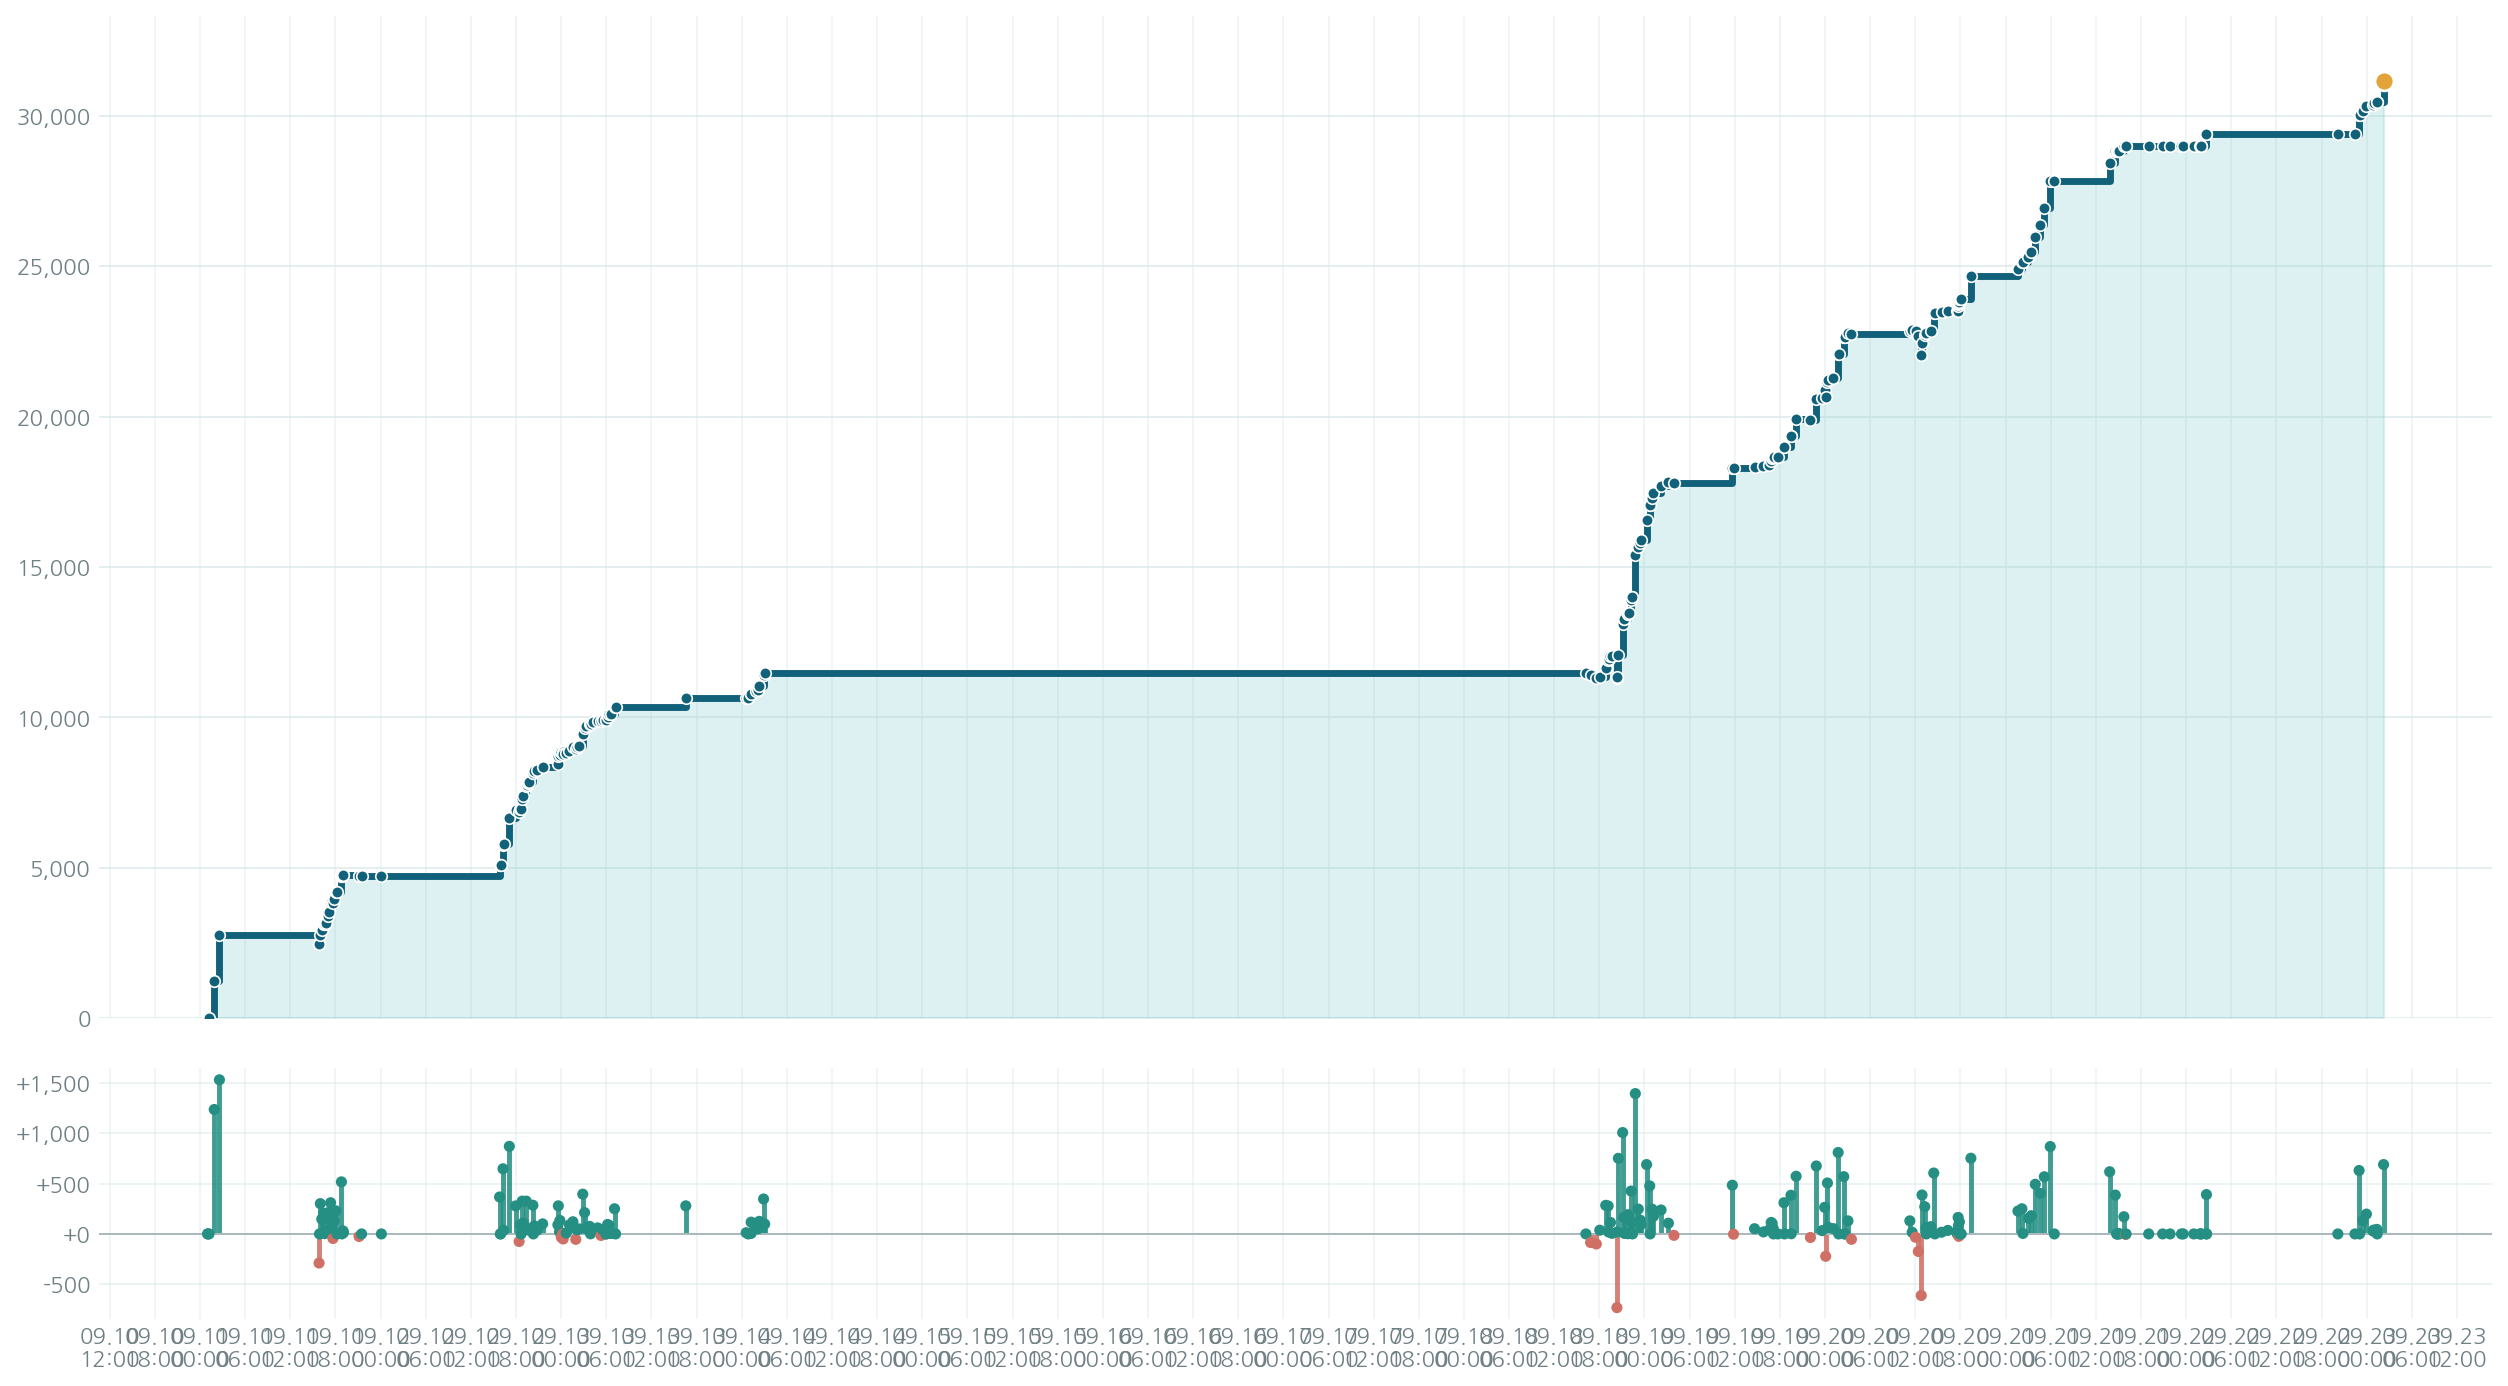
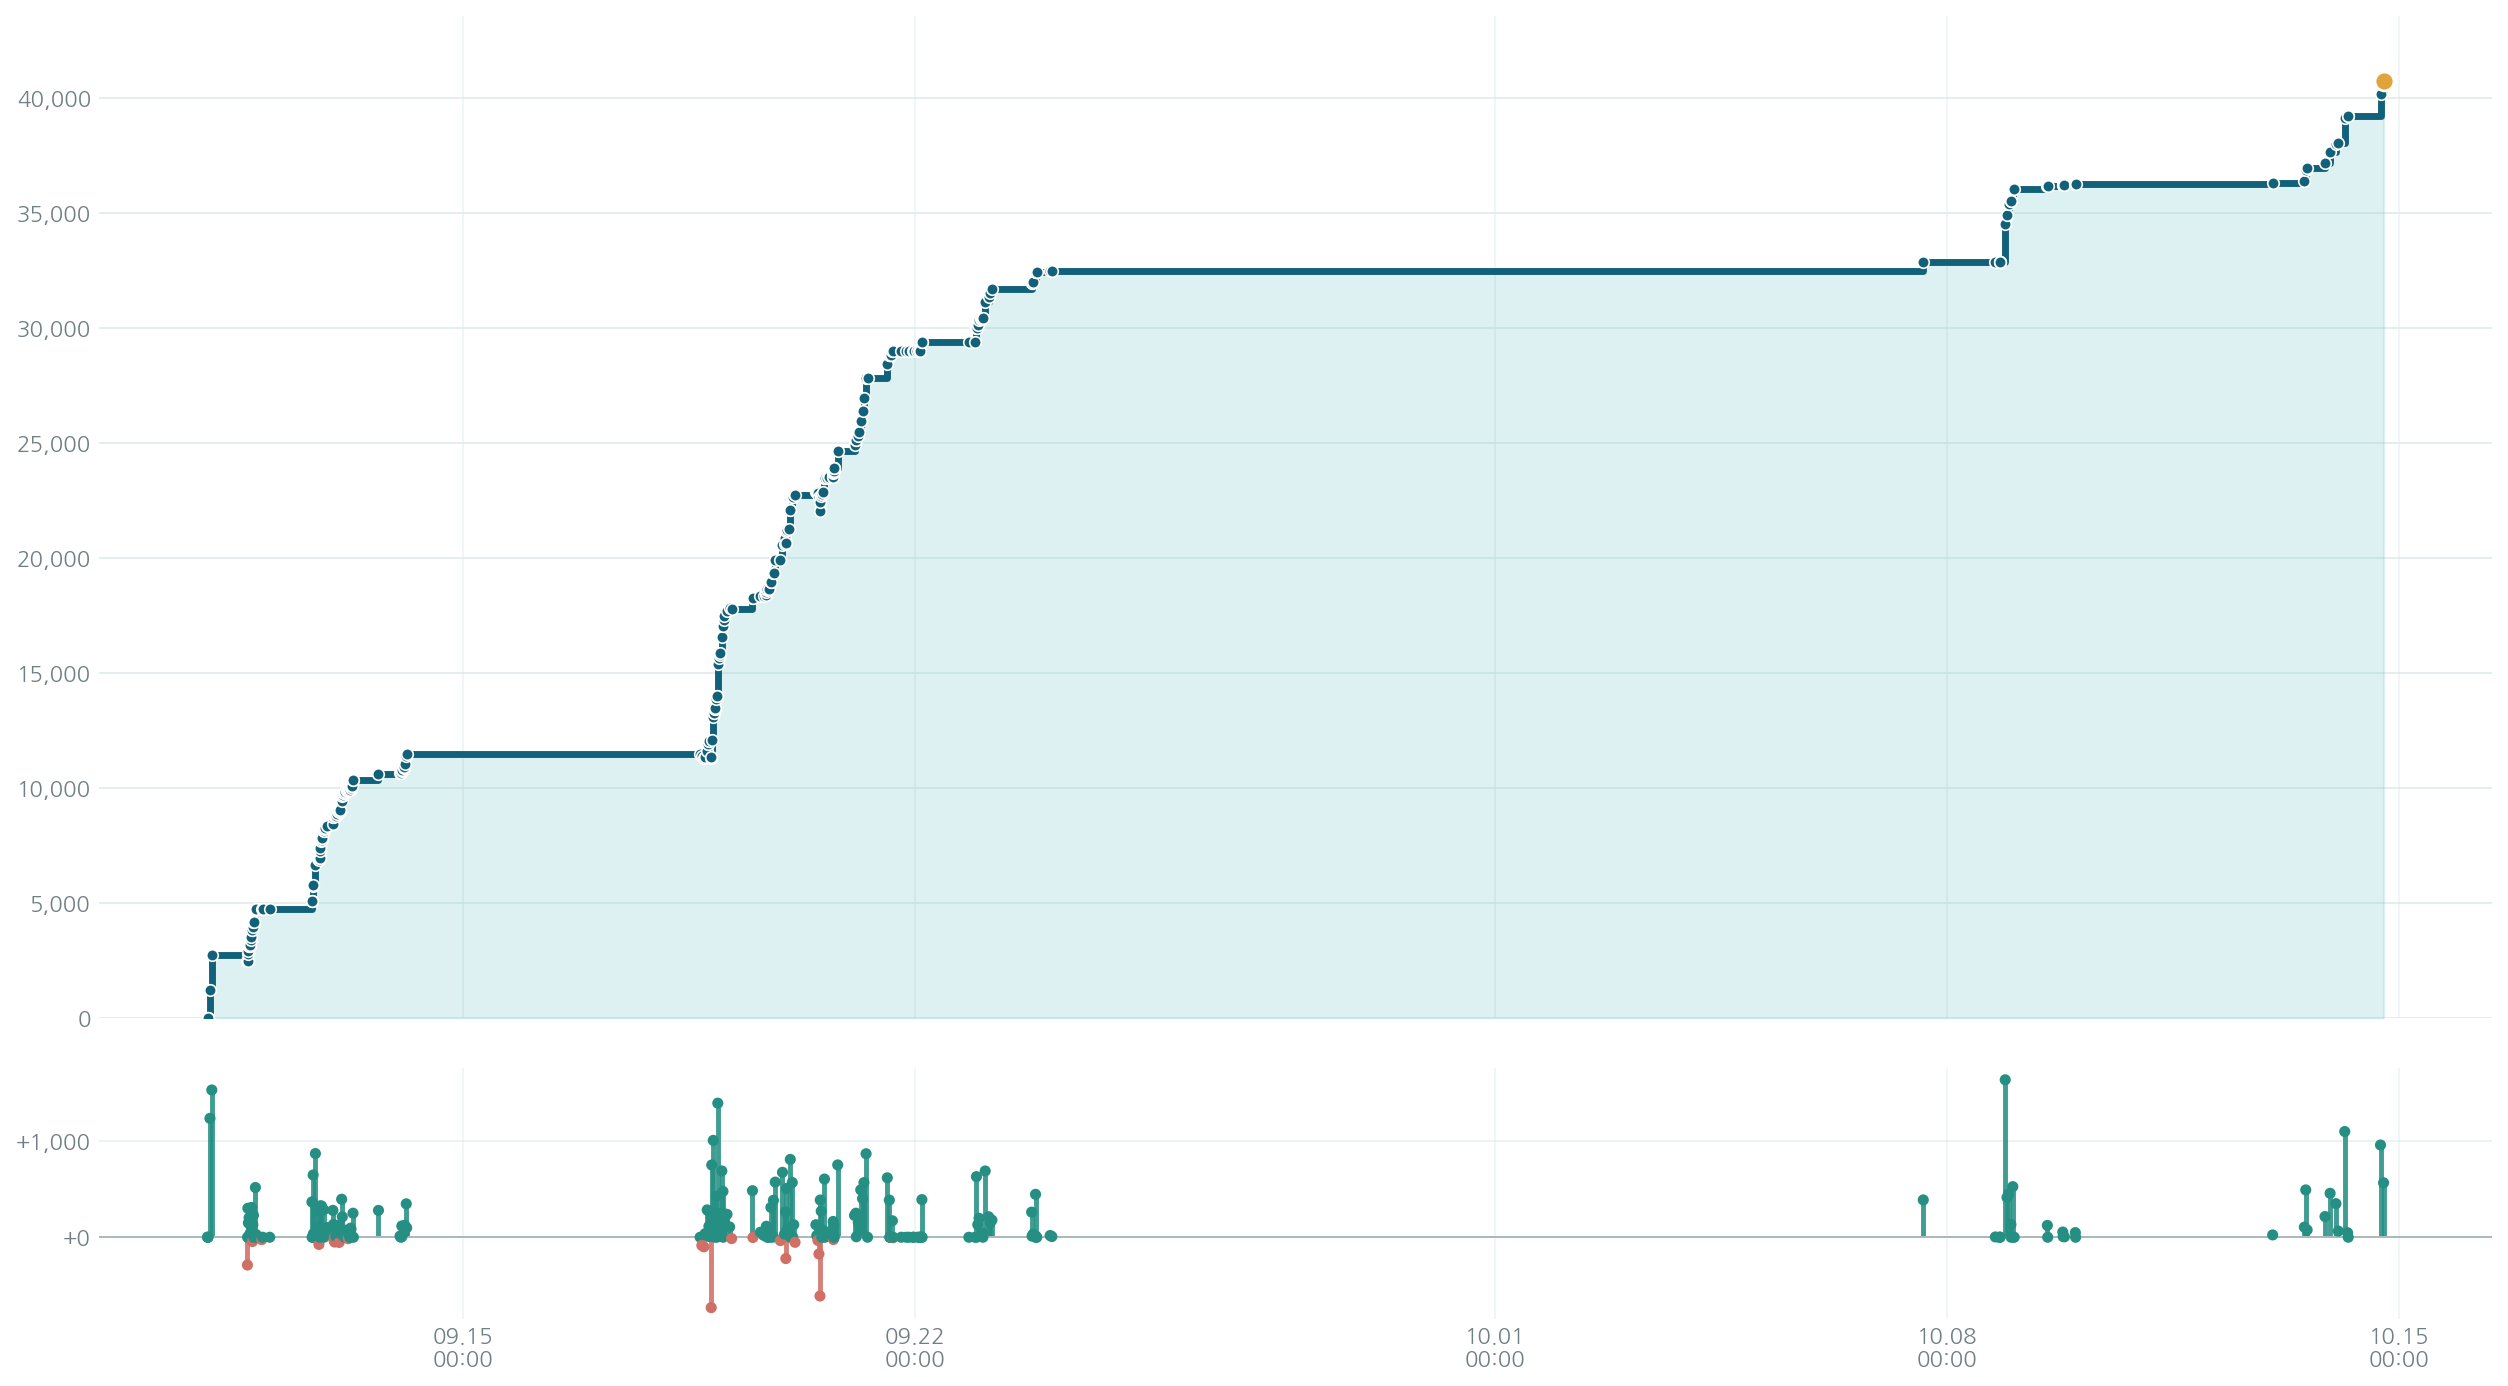
feat: update repository component growth data and image

diff --git a/apps/code-growth/plot-code-growth.py b/apps/code-growth/plot-code-growth.py
@@ -4,16 +4,23 @@
 from __future__ import annotations
 
 import os
-import subprocess
+import sys
 import tempfile
 from datetime import datetime
 from pathlib import Path
+from time import monotonic
 from zoneinfo import ZoneInfo
+
+from git_history import BlobLineCounter, code_blobs, git_text
 
 os.environ.setdefault(
     "MPLCONFIGDIR", str(Path(tempfile.gettempdir()) / "setdown-matplotlib")
 )
 
+import matplotlib
+
+# This script saves PNGs and must not open a desktop window from an IDE.
+matplotlib.use("Agg")
 import matplotlib.dates as mdates
 import matplotlib.pyplot as plt
 from matplotlib import font_manager
@@ -61,12 +68,6 @@ CODE_DIRECTORIES = (
 CONFIG_DIRECTORIES = {Path("."), Path("apps/desktop")}
 
 
-def git(*args: str) -> str:
-    return subprocess.check_output(
-        ["git", *args], cwd=ROOT, text=True, encoding="utf-8"
-    )
-
-
 def is_code_file(path: str) -> bool:
     candidate = Path(path)
     if path in ROOT_CODE_FILES:
@@ -78,17 +79,8 @@ def is_code_file(path: str) -> bool:
     )
 
 
-def code_lines(commit: str) -> int:
-    paths = git("ls-tree", "-r", "--name-only", commit).splitlines()
-    total = 0
-    for path in paths:
-        if not is_code_file(path):
-            continue
-        content = subprocess.check_output(
-            ["git", "show", f"{commit}:{path}"], cwd=ROOT
-        )
-        total += len(content.splitlines())
-    return total
+def code_lines(commit: str, counter: BlobLineCounter) -> int:
+    return sum(counter.lines(sha) for sha, path in code_blobs(commit) if is_code_file(path))
 
 
 def apply_type() -> None:
@@ -110,7 +102,7 @@ def apply_type() -> None:
 
 
 def style_time_axis(axis: plt.Axes) -> None:
-    axis.xaxis.set_major_locator(mdates.HourLocator(byhour=range(0, 24, 6), tz=SEOUL))
+    axis.xaxis.set_major_locator(mdates.AutoDateLocator(minticks=4, maxticks=8, tz=SEOUL))
     axis.xaxis.set_major_formatter(mdates.DateFormatter("%m.%d\n%H:%M", tz=SEOUL))
     axis.tick_params(axis="both", which="both", length=0, labelsize=10)
     axis.grid(axis="x", color=GRID, linewidth=0.8, alpha=0.48)
@@ -241,20 +233,27 @@ def save_detailed(records: list[dict[str, object]]) -> None:
 
 
 def main() -> None:
+    started = monotonic()
     records = []
-    history = git(
+    history = git_text(
         "log", "--reverse", "--format=%H%x09%cI%x09%s"
     ).splitlines()
-    for row in history:
-        commit, committed_at, subject = row.split("\t", 2)
-        records.append(
-            {
-                "commit": commit,
-                "time": datetime.fromisoformat(committed_at),
-                "subject": subject,
-                "lines": code_lines(commit),
-            }
-        )
+    if not history:
+        raise RuntimeError("No commits found in this repository.")
+    print(f"Counting code lines across {len(history)} commits…", file=sys.stderr, flush=True)
+    with BlobLineCounter() as counter:
+        for index, row in enumerate(history, 1):
+            commit, committed_at, subject = row.split("\t", 2)
+            records.append(
+                {
+                    "commit": commit,
+                    "time": datetime.fromisoformat(committed_at),
+                    "subject": subject,
+                    "lines": code_lines(commit, counter),
+                }
+            )
+            if index == 1 or index % 25 == 0 or index == len(history):
+                print(f"Counted {index}/{len(history)} commits", file=sys.stderr, flush=True)
 
     CLEAN_OUTPUT.parent.mkdir(parents=True, exist_ok=True)
     times = [record["time"] for record in records]
@@ -267,6 +266,7 @@ def main() -> None:
     print(f"Wrote {CLEAN_OUTPUT.relative_to(ROOT)}")
     print(f"Wrote {DETAILED_OUTPUT.relative_to(ROOT)}")
     print(f"Final code lines: {lines[-1]:,}")
+    print(f"Completed in {monotonic() - started:.1f}s")
 
 
 if __name__ == "__main__":

diff --git a/apps/code-growth/plot-component-growth.py b/apps/code-growth/plot-component-growth.py
@@ -6,12 +6,12 @@ from __future__ import annotations
 import argparse
 import csv
 import os
-import subprocess
 import tempfile
 from collections import OrderedDict
-from contextlib import AbstractContextManager
 from datetime import datetime
 from pathlib import Path
+
+from git_history import BlobLineCounter, code_blobs, git_text
 
 os.environ.setdefault(
     "MPLCONFIGDIR", str(Path(tempfile.gettempdir()) / "setdown-matplotlib")
@@ -80,14 +80,6 @@ LEGACY_TOOLING_FILES = {
 SELF_ANALYSIS_PATHS = {
     "scripts/plot-code-growth.py",
 }
-
-
-def git_bytes(*args: str) -> bytes:
-    return subprocess.check_output(["git", *args], cwd=ROOT)
-
-
-def git_text(*args: str) -> str:
-    return git_bytes(*args).decode("utf-8", errors="replace")
 
 
 def is_test_path(path: str) -> bool:
@@ -179,65 +171,9 @@ def component_for_path(path: str) -> str:
     return "legacy"
 
 
-class BlobLineCounter(AbstractContextManager["BlobLineCounter"]):
-    """Count physical lines once per blob SHA across the full history."""
-
-    def __init__(self) -> None:
-        self.cache: dict[str, int] = {}
-        self.process = subprocess.Popen(
-            ["git", "cat-file", "--batch"],
-            cwd=ROOT,
-            stdin=subprocess.PIPE,
-            stdout=subprocess.PIPE,
-        )
-
-    def __exit__(self, exc_type, exc_value, traceback) -> None:
-        if self.process.stdin:
-            self.process.stdin.close()
-        if self.process.stdout:
-            self.process.stdout.close()
-        self.process.terminate()
-        self.process.wait(timeout=5)
-
-    def lines(self, sha: str) -> int:
-        cached = self.cache.get(sha)
-        if cached is not None:
-            return cached
-
-        if self.process.stdin is None or self.process.stdout is None:
-            raise RuntimeError("git cat-file batch process is unavailable")
-
-        self.process.stdin.write(f"{sha}\n".encode())
-        self.process.stdin.flush()
-
-        header = self.process.stdout.readline().decode("ascii", errors="replace").strip()
-        parts = header.split()
-        if len(parts) != 3 or parts[1] != "blob":
-            raise RuntimeError(f"unexpected git cat-file response for {sha}: {header}")
-
-        size = int(parts[2])
-        content = self.process.stdout.read(size)
-        self.process.stdout.read(1)
-
-        count = len(content.splitlines())
-        self.cache[sha] = count
-        return count
-
-
 def snapshot_components(commit: str, counter: BlobLineCounter) -> dict[str, int]:
     totals = {key: 0 for key in COMPONENTS}
-    tree = git_bytes("ls-tree", "-r", "-z", "--full-tree", commit)
-
-    for entry in tree.split(b"\0"):
-        if not entry:
-            continue
-
-        metadata, raw_path = entry.split(b"\t", 1)
-        _mode, kind, sha = metadata.decode("ascii").split()
-        if kind != "blob":
-            continue
-
-        path = raw_path.decode("utf-8", errors="surrogateescape")
+    for sha, path in code_blobs(commit):
         if not is_code_file(path):
             continue
 

diff --git a/apps/code-growth/git_history.py b/apps/code-growth/git_history.py
@@ -1,0 +1,70 @@
+"""Read Git snapshots with one cached line count per unique file blob."""
+
+from __future__ import annotations
+
+import subprocess
+from contextlib import AbstractContextManager
+from pathlib import Path
+
+
+ROOT = Path(__file__).resolve().parents[2]
+
+
+def git_bytes(*args: str) -> bytes:
+    return subprocess.check_output(["git", *args], cwd=ROOT)
+
+
+def git_text(*args: str) -> str:
+    return git_bytes(*args).decode("utf-8", errors="replace")
+
+
+def code_blobs(commit: str):
+    """Yield blob IDs and unquoted paths, including paths containing newlines."""
+    for entry in git_bytes("ls-tree", "-r", "-z", "--full-tree", commit).split(b"\0"):
+        if not entry:
+            continue
+        metadata, raw_path = entry.split(b"\t", 1)
+        _mode, kind, sha = metadata.decode("ascii").split()
+        if kind == "blob":
+            yield sha, raw_path.decode("utf-8", errors="surrogateescape")
+
+
+class BlobLineCounter(AbstractContextManager["BlobLineCounter"]):
+    """Keep one cat-file process; unchanged files reuse their blob's count."""
+
+    def __init__(self) -> None:
+        self.cache: dict[str, int] = {}
+        self.process = subprocess.Popen(
+            ["git", "cat-file", "--batch"],
+            cwd=ROOT,
+            stdin=subprocess.PIPE,
+            stdout=subprocess.PIPE,
+        )
+
+    def __exit__(self, exc_type, exc_value, traceback) -> None:
+        if self.process.stdin:
+            self.process.stdin.close()
+        if self.process.stdout:
+            self.process.stdout.close()
+        self.process.terminate()
+        self.process.wait(timeout=5)
+
+    def lines(self, sha: str) -> int:
+        cached = self.cache.get(sha)
+        if cached is not None:
+            return cached
+        if self.process.stdin is None or self.process.stdout is None:
+            raise RuntimeError("git cat-file batch process is unavailable")
+        self.process.stdin.write(f"{sha}\n".encode("ascii"))
+        self.process.stdin.flush()
+        header = self.process.stdout.readline().decode("ascii", errors="replace").strip()
+        parts = header.split()
+        if len(parts) != 3 or parts[1] != "blob":
+            raise RuntimeError(f"unexpected git cat-file response for {sha}: {header}")
+        size = int(parts[2])
+        content = self.process.stdout.read(size)
+        if len(content) != size or self.process.stdout.read(1) != b"\n":
+            raise RuntimeError(f"incomplete git blob {sha}")
+        count = len(content.splitlines())
+        self.cache[sha] = count
+        return count

diff --git a/apps/code-growth/README.md b/apps/code-growth/README.md
@@ -15,6 +15,17 @@ The command now produces:
 - `repository-component-growth-line.png` for component-by-component LOC growth.
 - `repository-component-growth-line.csv` with the source data for the component chart.
 
+Run only the total-growth plots with:
+
+```bash
+npm run build:total --workspace @setdown/code-growth
+```
+
+The total plot reports its progress and completion time. Both scripts reuse one
+`git cat-file --batch` process and cache line counts by blob ID, so unchanged
+files are counted once across history instead of starting Git for every file
+at every commit. Total plots are saved without opening a desktop window.
+
 The component chart follows `main` first-parent history by default and measures every
 commit. It classifies both the current monorepo paths and their pre-refactor equivalents
 into the same semantic groups so directory moves do not appear as artificial growth:
